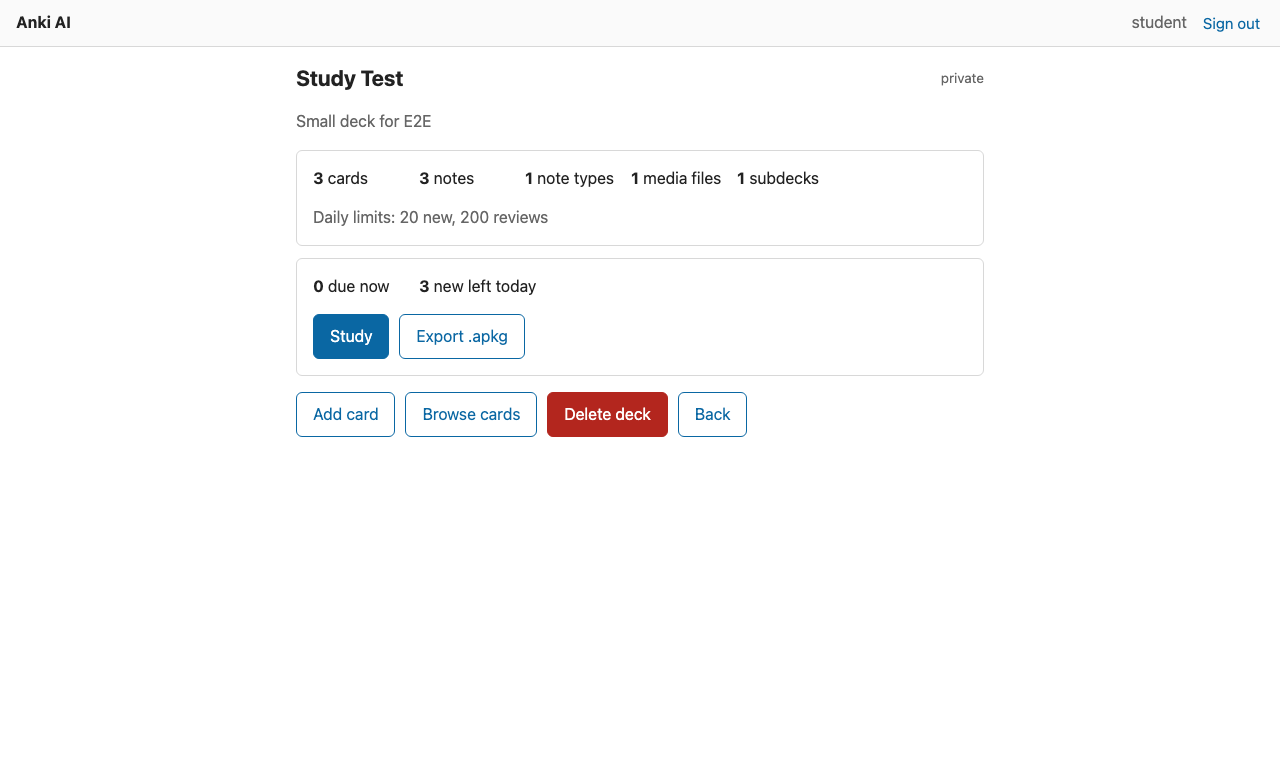
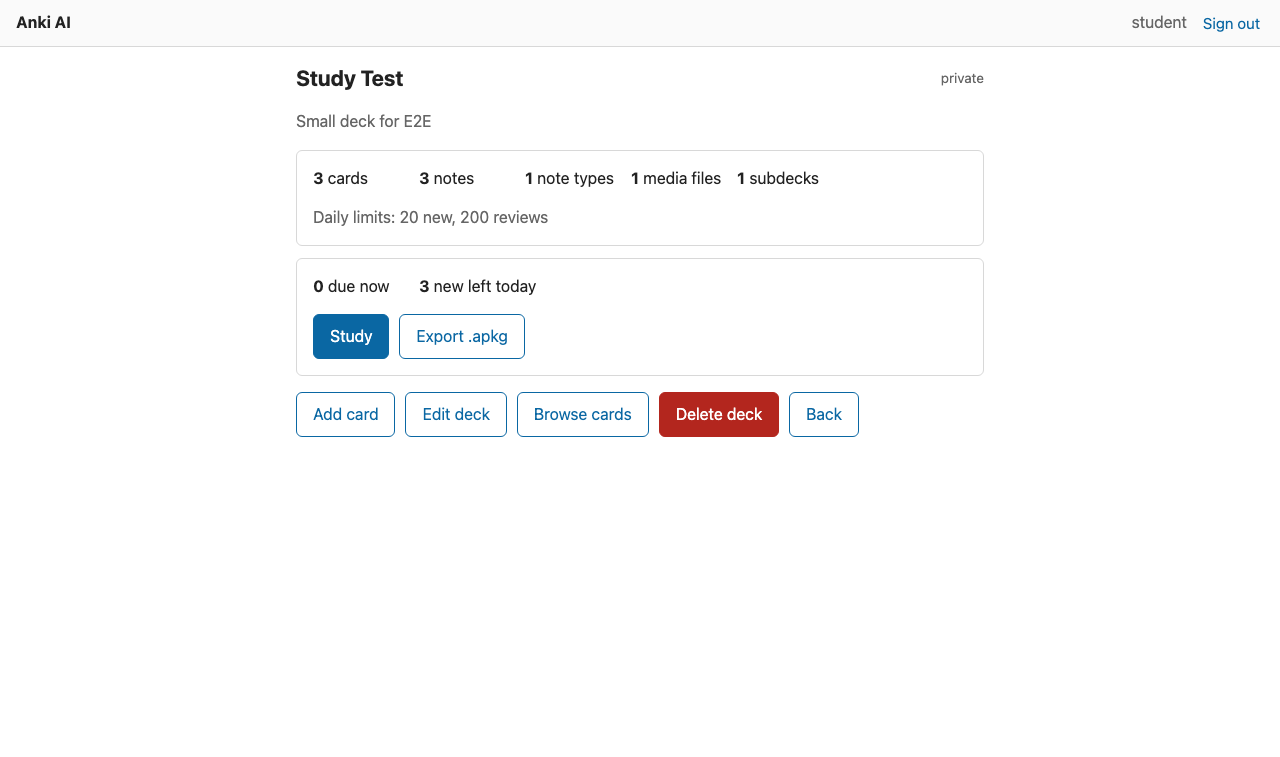
Step 7: public decks (browse page, per-user progress on shared decks, owner-only writes)
- Browse public decks page: everyone else's public decks with owner
  attribution and the browsing user's own due/new counts on them; one click
  on the name starts studying (same as the own-deck list)
- All read paths resolve decks through Deck.visible_to(user): public decks
  are readable (details, cards), studyable, and exportable with the
  requester's own progress; private decks 404 for everyone else
- Write paths are owner-only: add card, edit deck, delete (403), cards
  controller guards new/create
- Deck edit form (name/description/visibility/daily limits) shared with the
  new-deck form; Edit deck button for owners
- The reading user's reviews create progress rows only for them - verified
  E2E (owner keeps fresh cards, zero review logs; reader gets learning
  state), plus integration tests incl. export round-trip of a public deck
  carrying the reader's (not the owner's) progress
- README: step 7 checked off, runbook corrected (bin/dev runs only the
  server; SOLID_QUEUE_IN_PUMA/bin/jobs for AI), stale zstd non-goal removed
  (Anki 23.10+ import exists since the user's French deck fix)
- Evidence: step7_owner_deck_public, step7_browse_public_decks,
  step7_reading_public_deck
- Full suite: 152 runs, 862 assertions, green

Changed region(s): [[0.3438, 0.5165, 0.6562, 0.5773]]

diff --git a/app/assets/stylesheets/application.css b/app/assets/stylesheets/application.css
@@ -172,3 +172,6 @@ label.inline { display: inline; margin: 0; font-weight: 400; }
 .transcript-entry--tool pre { margin: 4px 0 0; white-space: pre-wrap; font-size: 0.8rem; }
 .transcript-entry--error { border-color: var(--danger); }
 .transcript-role { display: block; font-size: 0.75rem; text-transform: uppercase; letter-spacing: 0.04em; color: var(--muted); margin-bottom: 2px; }
+/* Deck form: paired numeric fields (limits) */
+.field-pair { display: flex; gap: 12px; }
+.field-pair > div { flex: 1; }

diff --git a/test/controllers/public_decks_test.rb b/test/controllers/public_decks_test.rb
@@ -1,0 +1,123 @@
+require "test_helper"
+
+class PublicDecksTest < ActionDispatch::IntegrationTest
+  setup do
+    @owner = build_user("publisher")
+    @owner_deck = @owner.decks.create!(name: "Shared French", description: "public vocab",
+                                       visibility: :public)
+    note_type = @owner_deck.note_types.create!(
+      name: "Basic", field_names: %w[Front Back],
+      templates: [ { "name" => "Card 1", "front" => "{{Front}}", "back" => "{{Back}}" } ],
+      card_requirements: [ [ 0, "any", %w[Front] ] ], css: ""
+    )
+    %w[bonjour hello salut].each_with_index do |word, i|
+      note = @owner_deck.notes.create!(note_type: note_type, fields: [ word, word.reverse ],
+                                       guid: "pub-#{i}")
+      Cards::Generate.call(note, position: i + 1)
+    end
+
+    @reader = build_user("reader")
+    post login_path, params: { name: "reader", password: "password123" }
+  end
+
+  test "browse lists others' public decks with the reader's own progress counts" do
+    deck = @reader.decks.create!(name: "My own", visibility: :public)
+    @owner.decks.create!(name: "Private one", visibility: :private)
+
+    get browse_decks_path
+    assert_response :success
+    names = css_select(".deck-list .deck-name").map(&:text)
+    assert_includes names, "Shared French"
+    assert_not_includes names, "My own"      # own decks stay on the main list
+    assert_not_includes names, "Private one" # others' private decks are invisible
+    assert_includes css_select(".deck-list li").first.inner_text, "by publisher"
+
+    # Review one card as the reader (an hour ago, so it is due now);
+    # their browse counts show their progress
+    card = @owner_deck.cards.order(:position).first
+    Reviewing::Apply.call(user: @reader, card: card, rating: 3, reviewed_at: 1.hour.ago)
+    get browse_decks_path
+    assert_includes @response.body, "due-count" # reader's due count on the foreign deck
+  end
+
+  test "the reader can study someone else's public deck with separate progress" do
+    card = @owner_deck.cards.order(:position).first
+    Reviewing::Apply.call(user: @reader, card: card, rating: 3)
+
+    get study_deck_path(@owner_deck)
+    assert_response :success
+    # The client-side session (cards serialized, both sides) is on the page
+    assert_select "script#study-session-data"
+    assert_match(/Shared French/, @response.body)
+
+    # The owner's progress is untouched by the reader's reviews
+    assert_nil @owner_deck.cards.order(:position).first.state_for(@owner)
+    assert @owner_deck.cards.order(:position).first.state_for(@reader).state_learning?
+  end
+
+  test "public deck details are readable but not editable by others" do
+    get deck_path(@owner_deck)
+    assert_response :success
+    assert_includes @response.body, "by publisher"
+    assert_includes @response.body, "Browse cards"
+    assert_no_match(/Delete deck/, @response.body)
+    assert_no_match(/Add card/, @response.body)
+    assert_match(/Export .apkg/, @response.body) # export includes the reader's own progress
+
+    get cards_deck_path(@owner_deck)
+    assert_response :success
+    assert_no_match(/Add card/, @response.body)
+
+    get new_card_deck_path(@owner_deck)
+    assert_response :forbidden
+
+    delete deck_path(@owner_deck)
+    assert_response :forbidden
+    assert Deck.exists?(@owner_deck.id)
+  end
+
+  test "the reader can export a public deck with their own progress" do
+    card = @owner_deck.cards.order(:position).first
+    Reviewing::Apply.call(user: @reader, card: card, rating: 3)
+
+    get export_deck_path(@owner_deck)
+    assert_response :success
+    assert_match(/attachment; filename="Shared French.apkg"/, @response.headers["Content-Disposition"])
+
+    # Round-trip: the export carries the reader's (not the owner's) progress
+    Tempfile.create([ "reader-export", ".apkg" ]) do |file|
+      file.binmode
+      file.write(@response.body)
+      file.flush
+      third = build_user("third")
+      copy = Decks::Import.call(third, file.path, name: "From reader")
+      # The reviewed card is learning; the other two are still new. In-app
+      # cards export under generated anki ids (CARD_ID_BASE + id), so use
+      # that to find the reader's reviewed card in the copy.
+      learned = copy.cards.find_by!(anki_card_id: Decks::Export::CARD_ID_BASE + card.id)
+      assert learned.state_for(third).state_learning?
+      assert_equal 1, learned.state_for(third).reps
+      assert copy.cards.where.not(id: learned.id).all? { |c| c.state_for(third).state_new? }
+    end
+  end
+
+  test "others' private decks are 404 everywhere" do
+    private_deck = @owner.decks.create!(name: "Hidden")
+    get deck_path(private_deck)
+    assert_response :not_found
+    get study_deck_path(private_deck)
+    assert_response :not_found
+    get cards_deck_path(private_deck)
+    assert_response :not_found
+    get export_deck_path(private_deck)
+    assert_response :not_found
+  end
+
+  test "the owner keeps full control of their public deck" do
+    post login_path, params: { name: "publisher", password: "password123" }
+    get deck_path(@owner_deck)
+    assert_response :success
+    assert_match(/Delete deck/, @response.body)
+    assert_match(/Add card/, @response.body)
+  end
+end

diff --git a/test/system/public_decks_test.rb b/test/system/public_decks_test.rb
@@ -1,0 +1,77 @@
+require "application_system_test_case"
+
+# Step 7 E2E: public decks. A second user browses a public deck, studies it
+# with their own progress, and the owner's progress stays untouched.
+class PublicDecksFlowTest < ApplicationSystemTestCase
+  include StudySystemHelpers
+
+  test "browse a public deck and study it with separate progress" do
+    # The owner imports a deck and makes it public
+    owner = User.create!(name: "owner", password: "password123")
+    deck = nil
+    sign_in_as("owner", "password123")
+    with_apkg(build_study_apkg, "public-deck") do |path|
+      click_on "Import .apkg"
+      attach_file "file", path
+      click_submit("Import")
+    end
+    deck = owner.decks.find_by!(name: "Study Test")
+    visit deck_path(deck)
+    # Flip the deck public through the edit form
+    click_on "Edit deck"
+    select "Public", from: "Visibility"
+    click_on "Save deck"
+    assert_text "public"
+    evidence("step7_owner_deck_public")
+    click_on "Sign out"
+
+    # The reader discovers it on the browse page and studies it in one click
+    User.create!(name: "reader", password: "password123")
+    sign_in_as("reader", "password123")
+    visit decks_path
+    assert_no_text "Study Test" # not on the reader's own list
+
+    click_on "Browse public decks"
+    assert_selector "h1", text: "Public decks"
+    assert_text "by owner"
+    assert_text "Study Test"
+    evidence("step7_browse_public_decks")
+
+    find(".deck-name", text: "Study Test").execute_script("this.click()")
+    assert_selector ".study-card"
+    assert_text "Show Answer"
+    evidence("step7_reading_public_deck")
+
+    # Review one card as the reader — through the real sync path
+    click_on "Show Answer"
+    find(".answer-bar .btn", text: "Good").execute_script("this.click()")
+
+    # The reader's progress on the deck list and browse page is theirs alone
+    visit decks_path
+    assert_no_text "Study Test"
+    click_on "Browse public decks"
+    assert_text "2 new" # one of three cards reviewed
+
+    # The owner's deck is untouched: the owner's cards are still fresh (the
+    # import seeds new-state rows) and no reviews were recorded for them
+    owner_card = deck.cards.order(:position).first
+    assert owner_card.state_for(owner).state_new?
+    assert_equal 0, ReviewLog.where(user: owner).count
+    assert owner_card.state_for(User.find_by!(name: "reader")).state_learning?
+    assert_equal 1, ReviewLog.where(user: User.find_by!(name: "reader")).count
+  end
+
+  test "private decks never appear for other users" do
+    owner = User.create!(name: "owner", password: "password123")
+    owner.decks.create!(name: "Secret deck")
+
+    User.create!(name: "reader", password: "password123")
+    sign_in_as("reader", "password123")
+    visit browse_decks_path
+    assert_text "No public decks yet"
+    assert_no_text "Secret deck"
+
+    visit deck_path(owner.decks.first)
+    assert_selector "h1", text: "Decks" # 404 page falls back to the deck list
+  end
+end

diff --git a/app/controllers/decks_controller.rb b/app/controllers/decks_controller.rb
@@ -1,17 +1,21 @@
 class DecksController < ApplicationController
   before_action :require_login
-  before_action :set_deck, only: [ :show, :destroy, :export ]
+  before_action :set_deck, only: [ :show, :destroy, :export, :edit, :update ]
+  before_action :require_owner, only: [ :destroy, :edit, :update ]
 
   def index
     @decks = current_user.decks.order(:name)
     @ai_configured = Ai::Setting.current.configured?
-    @due_counts = CardState.joins(:card)
-                           .where(user: current_user, state: [ :learning, :relearning, :review ])
-                           .where("card_states.due <= ?", Time.now.utc)
-                           .group("cards.deck_id").count
-    introduced = CardState.where(user: current_user).where.not(state: :new).select(:card_id)
-    @new_counts = Card.where(deck: @decks, suspended: false)
-                       .where.not(id: introduced).group(:deck_id).count
+    @due_counts, @new_counts = deck_counts(@decks)
+  end
+
+  # Everyone's public decks (excluding your own — those are on the main list),
+  # with your own progress counts on them.
+  def browse
+    @ai_configured = Ai::Setting.current.configured?
+    @decks = Deck.where(visibility: :public).where.not(user: current_user)
+                 .order(:name).includes(:user)
+    @due_counts, @new_counts = deck_counts(@decks)
   end
 
   def new
@@ -28,6 +32,17 @@ class DecksController < ApplicationController
   end
 
   def show
+  end
+
+  def edit
+  end
+
+  def update
+    if @deck.update(deck_params)
+      redirect_to @deck, notice: "Deck updated."
+    else
+      render :edit, status: :unprocessable_entity
+    end
   end
 
   # Streams the deck as a schema-11 .apkg (Anki-importable, includes the
@@ -74,8 +89,27 @@ class DecksController < ApplicationController
 
   private
 
+  # Public decks are readable (and studyable/exportable with YOUR progress)
+  # by anyone; only the owner can destroy or modify them.
   def set_deck
-    @deck = current_user.decks.find(params[:id])
+    @deck = Deck.visible_to(current_user).find(params[:id])
+  end
+
+  def require_owner
+    head :forbidden unless @deck.editable_by?(current_user)
+  end
+
+  # due-now and new-left counts per deck for the CURRENT user (works for
+  # owned and public-studied decks alike — progress is always per-user).
+  def deck_counts(decks)
+    due_counts = CardState.joins(:card)
+                          .where(user: current_user, state: [ :learning, :relearning, :review ])
+                          .where("card_states.due <= ?", Time.now.utc)
+                          .group("cards.deck_id").count
+    introduced = CardState.where(user: current_user).where.not(state: :new).select(:card_id)
+    new_counts = Card.where(deck: decks, suspended: false)
+                     .where.not(id: introduced).group(:deck_id).count
+    [ due_counts, new_counts ]
   end
 
   def deck_params

diff --git a/config/routes.rb b/config/routes.rb
@@ -11,6 +11,7 @@ Rails.application.routes.draw do
   # Import routes must precede resources so "import" is not matched as an id.
   get  "decks/import" => "decks#import_form", as: :import_decks_form
   post "decks/import" => "decks#import", as: :import_decks
+  get  "decks/browse" => "decks#browse", as: :browse_decks
 
   # Offline sync: idempotent batch of client-generated review ops.
   post "sync", to: "sync#create"
@@ -20,7 +21,7 @@ Rails.application.routes.draw do
     resources :generations, only: [ :new, :create, :show ]
   end
 
-  resources :decks, only: [ :index, :new, :create, :show, :destroy ] do
+  resources :decks, only: [ :index, :new, :create, :show, :edit, :update, :destroy ] do
     member do
       get "media/:filename", to: "decks/media#show", as: :media, constraints: { filename: %r{[^/]+} }
       get "study", to: "decks/study#show", as: :study

diff --git a/app/controllers/decks/cards_controller.rb b/app/controllers/decks/cards_controller.rb
@@ -1,7 +1,7 @@
 class Decks::CardsController < ApplicationController
   before_action :require_login
   before_action :set_deck
-  before_action :require_owner
+  before_action :require_owner, only: [ :new, :create ]
 
   before_action :set_note_types, only: [ :new, :create ]
   before_action :set_note_type, only: [ :new, :create ]
@@ -40,7 +40,9 @@ class Decks::CardsController < ApplicationController
   private
 
   def set_deck
-    @deck = current_user.decks.find(params[:id])
+    # Public decks are browsable read-only; the write actions are guarded
+    # separately by require_owner.
+    @deck = Deck.visible_to(current_user).find(params[:id])
   end
 
   def require_owner

diff --git a/README.md b/README.md
@@ -11,7 +11,9 @@ AI agent that has tools to build a deck from a description.
   modules + service worker; no SPA framework, no animation).
 - **Scheduling**: hand-written FSRS (see `ARCHITECTURE.md`).
 - **Anki compatibility**: hand-written `.apkg` import/export (schema 11), template
-  renderer, and media/audio support.
+  renderer, and media/audio support. Modern Anki 23.10+ exports (zstd-compressed
+  `collection.anki21b`, schema 18) import too — via a Fiddle binding to the system
+  libzstd, no gem.
 
 ## Requirements
 
@@ -25,7 +27,7 @@ AI agent that has tools to build a deck from a description.
 ```bash
 bin/setup                # bundle, db create/migrate
 bin/rails "user:create[name=me,password=secret]"   # create a login
-bin/dev                  # or: bin/rails server + bin/jobs (Solid Queue worker)
+bin/rails server         # add SOLID_QUEUE_IN_PUMA=true (or run bin/jobs) for AI deck generation
 ```
 
 ### AI configuration (OpenAI-compatible endpoint)
@@ -125,16 +127,23 @@ and a check-in for approval before the next step.
       generate → study the deck, API failure UX, and unconfigured UX. Screenshots:
       `step6_new_ai_deck_button`, `step6_ai_form`, `step6_ai_done`, `step6_generated_deck`,
       `step6_generated_deck_study`, `step6_ai_failed`.
-- [ ] **Step 7 — Public decks & polish.** Public/private visibility; browse public
+- [x] **Step 7 — Public decks & polish.** Public/private visibility; browse public
       decks; study someone else's public deck with **your own separate progress**
       (progress rows are per-user from day one, this step exposes the UI). Final E2E
       pass over all flows, full screenshot set, README runbook finalization.
+      Done: "Browse public decks" page (everyone's public decks, owner attribution,
+      your own due/new counts on them), one-click study straight from it. Deck edit
+      form (name/description/visibility/daily limits) with owner-only write guards on
+      details, cards, add-card, edit, delete. Public decks are readable, studyable,
+      browsable and **exportable with the requester's own progress** everywhere
+      (study/media/cards/controllers all resolve through `Deck.visible_to`);
+      private decks 404 for everyone else. Full suite green: 152 runs
+      (unit + integration + system incl. two-user public-deck E2E). Screenshots:
+      `step7_owner_deck_public`, `step7_browse_public_decks`, `step7_reading_public_deck`.
 
 ## Non-goals (for now)
 
 - No registration flow (users created via rake task).
 - No Anki add-on ecosystem, no note-type sharing across decks, no nested deck management
   UI (subdeck info is preserved on cards; see ARCHITECTURE.md).
-- No zstd-compressed `collection.anki21b` import (schema 11 covers both fixtures and any
-  deck exported with "support older Anki versions"; can be added later with a zstd dep).
 - No deployment automation (app will be upgraded in place on a VM later).

diff --git a/ARCHITECTURE.md b/ARCHITECTURE.md
@@ -64,8 +64,13 @@ Rails migrations; SQLite. Central idea **[DECISION 1]**:
 - `has_secure_password` + Rails cookie session; `login`/`logout` routes; every page
   behind `authenticate`.
 - `user:create[name,password]` rake task (no registration flow).
-- Visibility: `Deck.where(visibility: :public).or(Deck.where(user:))` for indexes.
-  Public decks are read/study-only for non-owners (no editing others' content).
+- Visibility: every read path resolves decks through `Deck.visible_to(user)`
+  (`public OR owned`). Public decks are studyable, browsable (the "Browse public
+  decks" page lists everyone else's public decks with **your own** due/new counts)
+  and exportable **with the requester's own progress**; writes (add card, edit
+  deck, delete) are owner-only. Studying someone else's deck creates progress rows
+  for *you* only — the schema was per-user from day one, so nothing leaks between
+  users (verified E2E: reader reviews never appear for the owner, and vice versa).
 
 ## Anki compatibility layer — `lib/anki`
 
